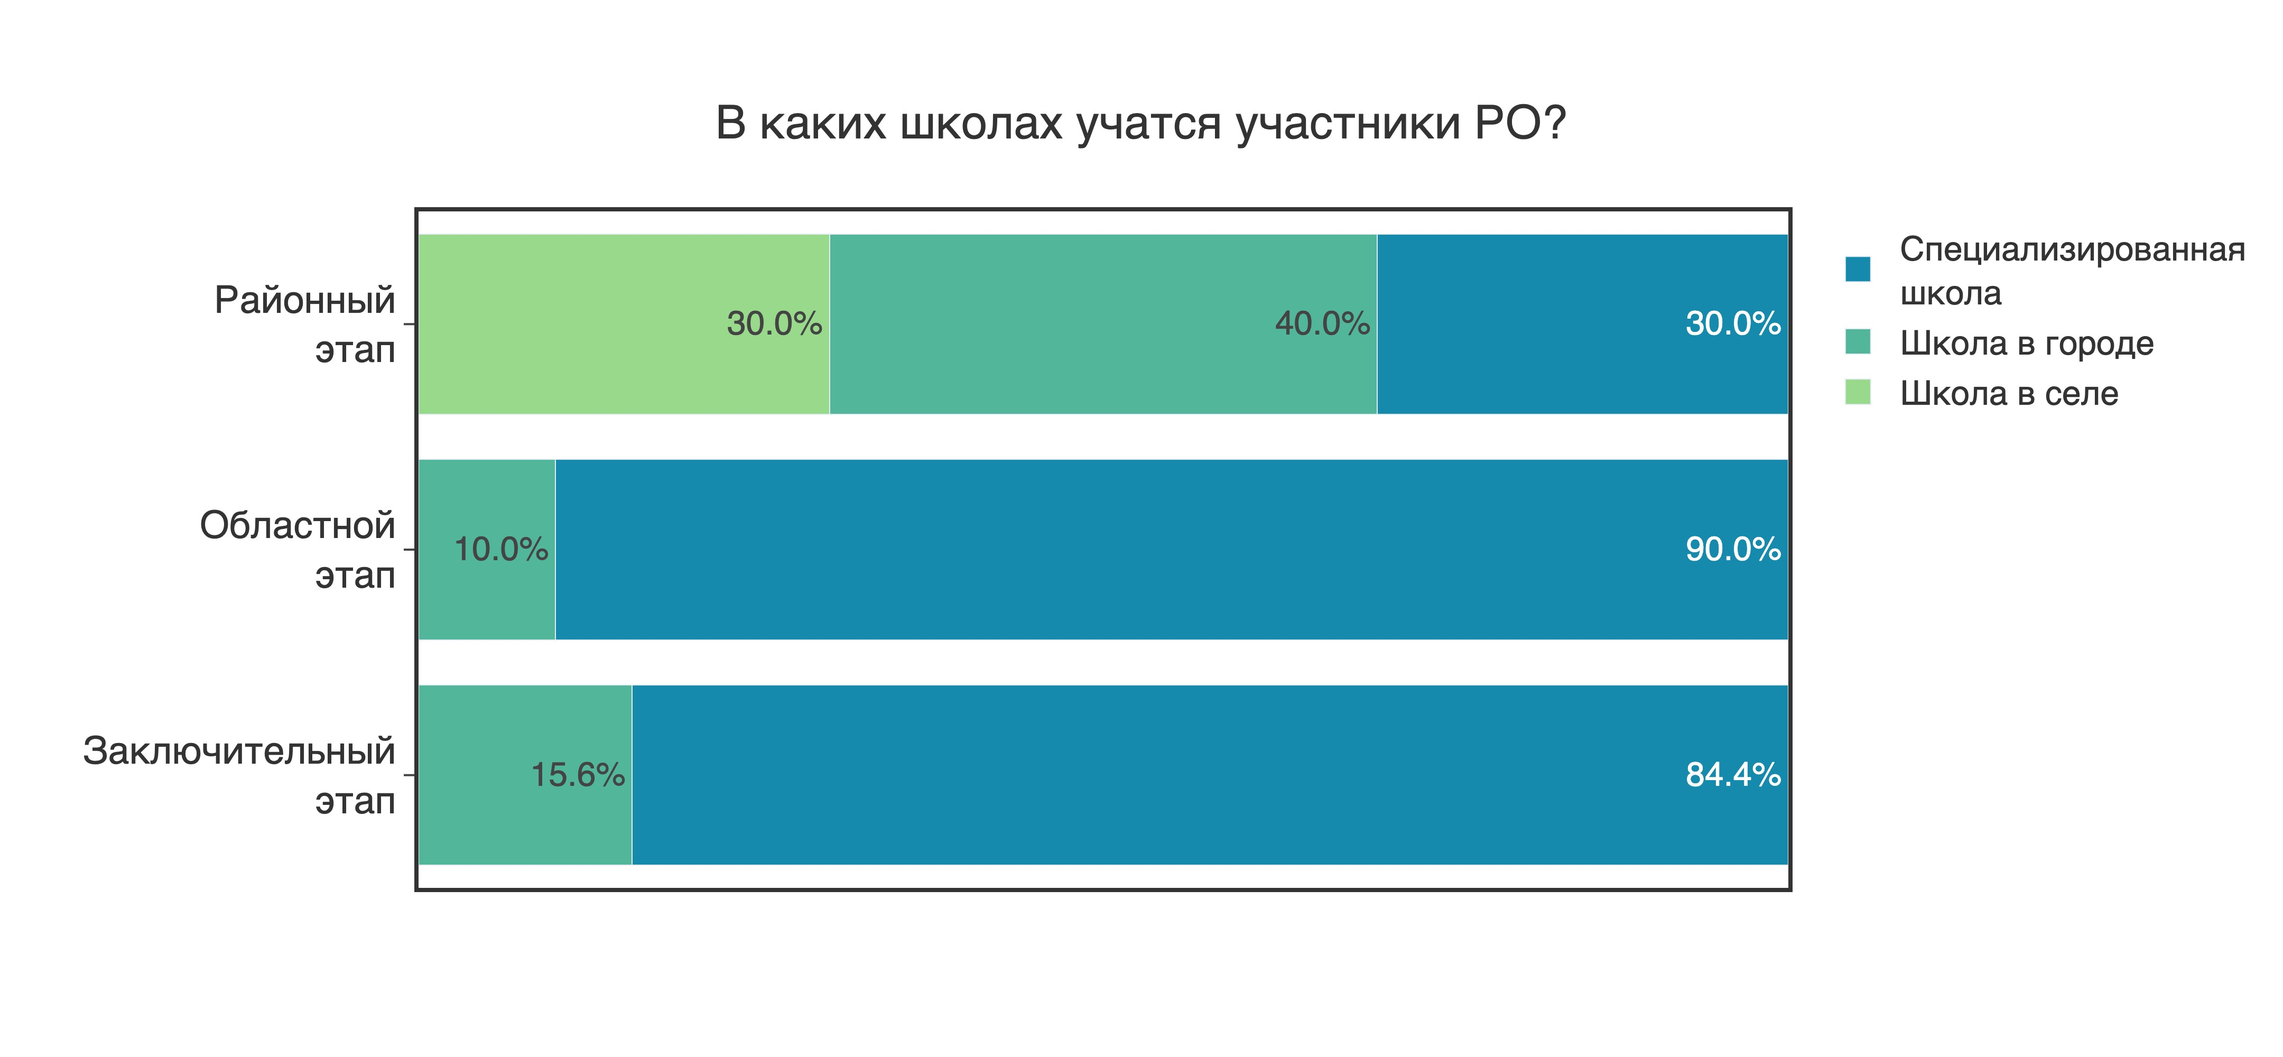
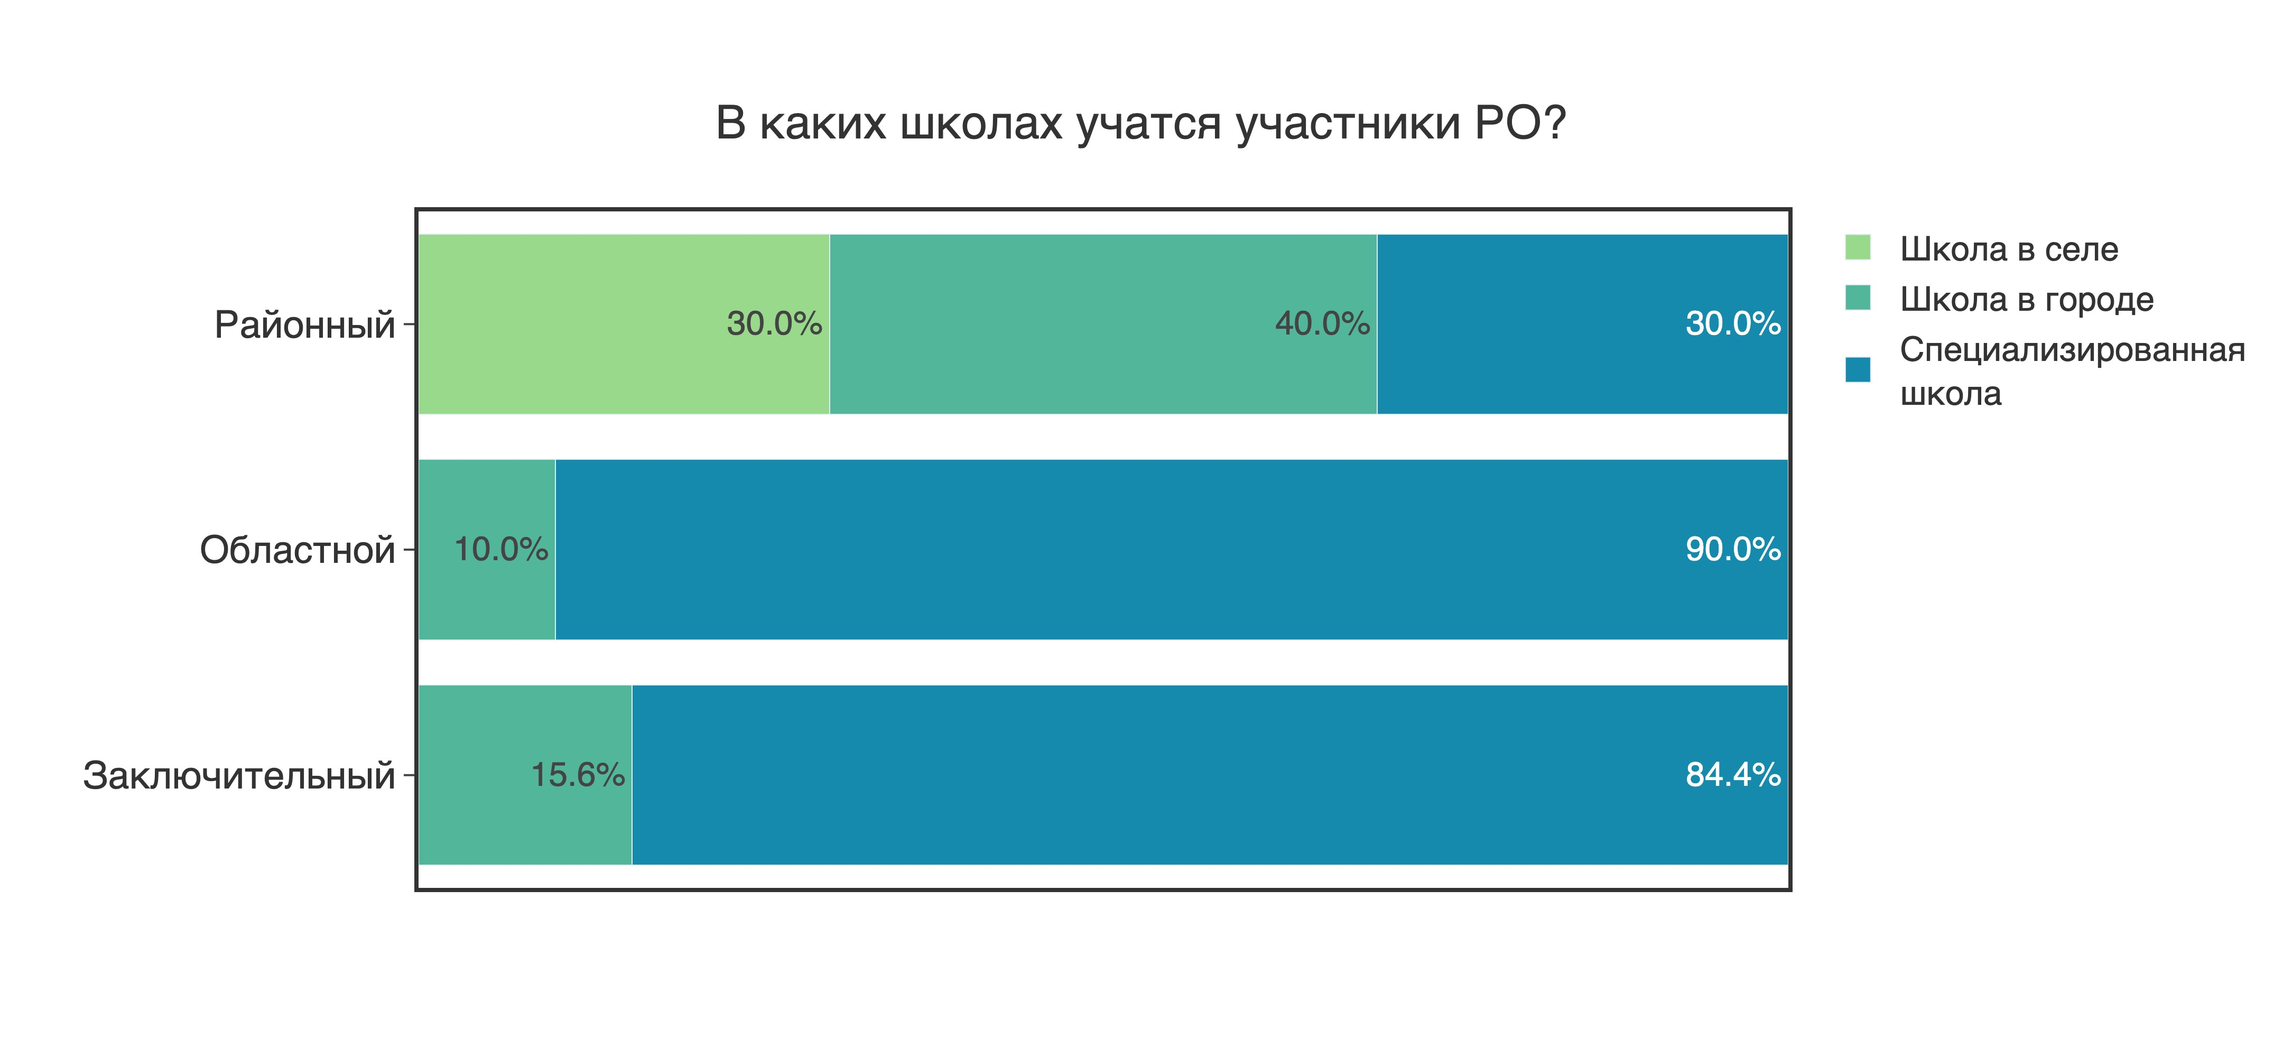
finish parsing survey

diff --git a/analysis/survey.py b/analysis/survey.py
@@ -8,6 +8,14 @@ class Analyzer:
     STAGES = "region oblast respa".split()
     GREEN3 = ["#99d98c", "#52b69a", "#168aad"]
     BLUEPINK = ["#4ea8de", "#ff8fab"]
+    BINARY = ["#5390d9", "#9d4edd"]
+    BINARYHOT = ["#EF7A85", "#788BFF"]
+    VIOLET5 = ["#e0aaff", "#c77dff", "#9d4edd", "#7b2cbf", "#5a189a"]
+    RED5 = ["#fff0f3", "#ffccd5", "#ffb3c1", "#ff4d6d", "#c9184a"]
+    GREEN5 = ["#d8f3dc", "#b7e4c7", "#95d5b2", "#57c84d", "#2eb62c"]
+    LIKERT = ['#D35269', '#EF7A85', '#EAEAEA', '#788BFF', '#5465FF']
+    stageToInd = {"respa": 0, "oblast": 1, "region": 2}
+    xValsStages = ["Заключительный", "Областной", "Районный"]
 
     def __init__(self):
         self.ROUND1 = tools.rounder(1)
@@ -18,7 +26,6 @@ class Analyzer:
     
     def school_distribution(self):
         graph = Graph()
-        stageToIn = {"region": 2, "oblast": 1, "respa": 0}
         data = {
             "respa": [0, 0, 0],
             "oblast": [0, 0, 0],
@@ -32,17 +39,16 @@ class Analyzer:
                     data[stage][1] += 1
                 else:
                     data[stage][2] += 1
-        xVals = ["Заключительный", "Областной", "Районный"]
         newData = {}
         schools = ["Школа в селе", "Школа в городе", "Специализированная<br>школа"]
         for stage, numbers in data.items():
             for school, number in zip(schools, numbers):
-                newData.setdefault(school, [None, None, None])[stageToIn[stage]] = self.ROUND1(number/sum(data[stage])*100)
+                newData.setdefault(school, [None, None, None])[self.stageToInd[stage]] = self.ROUND1(number/sum(data[stage])*100)
         traces = []
         for i, (stage, yVals) in enumerate(newData.items()):
             yValLabels = [f"{val}%" for val in yVals]
-            traces.append(go.Bar(y=xVals, x=yVals, name=stage, orientation='h', marker_color=self.GREEN3[i],
-                                 text=yValLabels, textposition='auto'))
+            traces.append(go.Bar(y=self.xValsStages, x=yVals, name=stage, orientation='h', marker_color=self.GREEN3[i],
+                                 text=yValLabels, textposition='auto', legendrank=2-i))
         title = 'В каких школах учатся участники РО?'
         graph.horizontal_bar_plot(traces, "demographics/schools", title)
 
@@ -83,12 +89,11 @@ class Analyzer:
         for i, (lang, yVals) in enumerate(newData.items()):
             yValLabels = [f"{val}%" for val in yVals]
             traces.append(go.Bar(y=xVals, x=yVals, name=lang, orientation='h', marker_color=self.GREEN3[2-i],
-                                 text=yValLabels, textposition='auto'))
+                                 text=yValLabels, textposition='auto', legendrank=2-i))
         graph.horizontal_bar_plot(traces, "demographics/language", "Язык обучения и язык на котором ученики читают задания РО")
 
     def gender_distribution(self):
         graph = Graph()
-        keyToInd = {"respa": 0, "oblast": 1, "region": 2}
         data = {"respa": [0, 0], "oblast": [0, 0], "region": [0, 0]} # male female
         for stage in self.STAGES:
             for student in self.raw[stage][0]:
@@ -100,17 +105,200 @@ class Analyzer:
         genders = ["Мужской", "Женский"]
         for stage, genderdist in data.items():
             for gender, count in zip(genders, genderdist):
-                newData.setdefault(gender, [None, None, None])[keyToInd[stage]] = self.ROUND1(count/sum(data[stage])*100)
+                newData.setdefault(gender, [None, None, None])[self.stageToInd[stage]] = self.ROUND1(count/sum(data[stage])*100)
         traces = []
-        xVals = ["Заключительный", "Областной", "Районный"]
         for i, (gender, yVals) in enumerate(newData.items()):
             yValLabels = [f"{val}%" for val in yVals]
-            traces.append(go.Bar(y=xVals, x=yVals, name=gender, orientation='h', marker_color=self.BLUEPINK[i],
-                                 text=yValLabels, textposition='auto'))
+            traces.append(go.Bar(y=self.xValsStages, x=yVals, name=gender, orientation='h', marker_color=self.BLUEPINK[i],
+                                 text=yValLabels, textposition='auto', legendrank=1-i))
         graph.horizontal_bar_plot(traces, "demographics/gender", "Пол участников РО")
 
+    def first_timers(self):
+        graph = Graph()
+        data = {"respa": [0, 0], "oblast": [0, 0], "region": [0, 0]} # first time | returning
+        for stage in self.STAGES:
+            for student in self.raw[stage][0]:
+                if student.firstTime:
+                    data[stage][0] += 1
+                else:
+                    data[stage][1] += 1
+        newData = {}
+        kinds = ["Участвует первый раз", "Участвовал в<br>предыдущие годы"]
+        for stage, kinddist in data.items():
+            for kind, count in zip(kinds, kinddist):
+                newData.setdefault(kind, [None, None, None])[self.stageToInd[stage]] = self.ROUND1(count/sum(data[stage])*100)
+        traces = []
+        for i, (kind, yVals) in enumerate(newData.items()):
+            yValLabels = [f"{val}%" for val in yVals]
+            traces.append(go.Bar(y=self.xValsStages, x=yVals, name=kind, orientation='h', marker_color=self.BINARY[i],
+                                 text=yValLabels, textposition='auto', legendrank=1-i))
+        graph.horizontal_bar_plot(traces, "demographics/firsttimers", "Какая доля учеников участвует на РО в первый раз?")
+    
+    def first_timers_by_grade(self, grade):
+        graph = Graph()
+        data = {"respa": [0, 0], "oblast": [0, 0], "region": [0, 0]} # first time | returning
+        for stage in self.STAGES:
+            for student in self.raw[stage][1][grade]:
+                if student.firstTime:
+                    data[stage][0] += 1
+                else:
+                    data[stage][1] += 1
+        newData = {}
+        kinds = ["Участвует первый раз", "Участвовал в<br>предыдущие годы"]
+        for stage, kinddist in data.items():
+            for kind, count in zip(kinds, kinddist):
+                newData.setdefault(kind, [None, None, None])[self.stageToInd[stage]] = self.ROUND1(count/sum(data[stage])*100)
+        traces = []
+        for i, (kind, yVals) in enumerate(newData.items()):
+            yValLabels = [f"{val}%" for val in yVals]
+            traces.append(go.Bar(y=self.xValsStages, x=yVals, name=kind, orientation='h', marker_color=self.BINARY[i],
+                                 text=yValLabels, textposition='auto', legendrank=1-i))
+        graph.horizontal_bar_plot(traces, f"demographics/firsttimers-grade{grade}", f"Какая доля учеников ({grade} кл.) участвует на РО в первый раз?")
+
+    def preparation_time(self):
+        graph = Graph()
+        keyToInd = {"Меньше двух недель": 0, "От двух недель до месяца": 1,
+                    "От месяца до 3 месяцев": 2, "От 3 месяцев до 6 месяцев": 3,
+                    "Больше 6 месяцев": 4}
+        data = {"respa": [0, 0, 0, 0, 0], "oblast": [0, 0, 0, 0, 0], 
+                "region": [0, 0, 0, 0, 0]} # <2 weeks|2-4 weeks|1-3 months|3-6 months|>6 months
+        for stage in self.STAGES:
+            for student in self.raw[stage][0]:
+                data[stage][keyToInd[student.prepTime]] += 1
+        newData = {}
+        for stage, timedist in data.items():
+            for time, count in zip(keyToInd, timedist):
+                newData.setdefault(time, [None]*3)[self.stageToInd[stage]] = self.ROUND1(count/sum(data[stage])*100)
+        traces = []
+        for i, (time, yVals) in enumerate(newData.items()):
+            yValLabels = [f"{val}%" for val in yVals]
+            traces.append(go.Bar(y=self.xValsStages, x=yVals, name=time, orientation='h', marker_color=self.VIOLET5[i],
+                                 text=yValLabels, textposition='auto'))
+        graph.horizontal_bar_plot(traces, "demographics/preptime", "Как долго ученики готовятся к РО?")
+                
+    def preparation_style(self):
+        graph = Graph()
+        keyToInd = {"Я готовился<br>с учителем": 0, "Я готовился<br>больше с учителем,<br>нежели самостоятельно": 1,
+                    "Готовился в равной<br>степени самостоятельно<br>и с учителем": 2, "Я готовился<br>больше самостоятельно,<br>нежели с учителем": 3,
+                    "Я готовился<br>самостоятельно": 4}
+        data = {"respa": [0, 0, 0, 0, 0], "oblast": [0, 0, 0, 0, 0], 
+                "region": [0, 0, 0, 0, 0]}
+        for stage in self.STAGES:
+            for student in self.raw[stage][0]:
+                for key in keyToInd:
+                    if key.replace("<br>", " ") == student.prepStyle:
+                        data[stage][keyToInd[key]] += 1
+        newData = {}
+        for stage, styledist in data.items():
+            for style, count in zip(keyToInd, styledist):
+                newData.setdefault(style, [None]*3)[self.stageToInd[stage]] = self.ROUND1(count/sum(data[stage])*100)
+        traces = []
+        for i, (style, yVals) in enumerate(newData.items()):
+            yValLabels = [f"{val}%" for val in yVals]
+            traces.append(go.Bar(y=self.xValsStages, x=yVals, name=style, orientation='h', marker_color=self.LIKERT[i],
+                                 text=yValLabels, textposition='auto', legendrank=4-i))
+        graph.horizontal_bar_plot(traces, "demographics/prepstyle", "Как ученики готовятся к РО: с учителем или самостоятельно?")
+
+    def did_you_know(self):
+        graph = Graph()
+        knewQazChO, knewSyllabus, knewQazolymp = [0, 0], [0, 0], [0, 0]
+        for student in self.raw["region"][0]:
+            if student.knewQazChO:
+                knewQazChO[0] += 1
+            else:
+                knewQazChO[1] += 1
+            if student.knewSyllabus:
+                knewSyllabus[0] += 1
+            else:
+                knewSyllabus[1] += 1
+            if student.knewQazolymp:
+                knewQazolymp[0] += 1
+            else:
+                knewQazolymp[1] += 1
+        def share(data, ind):
+            return self.ROUND1(data[ind]/sum(data)*100)
+        
+        newData = {"Да": [share(knewQazChO, 0), share(knewSyllabus, 0), share(knewQazolymp, 0)],
+                   "Нет": [share(knewQazChO, 1), share(knewSyllabus, 1), share(knewQazolymp, 1)]}
+        keyToInd = {"Знали ли вы<br>про существование<br>Коллегии химиков (qazcho.kz)?": 0,
+                    "Знали ли вы<br>про существование<br>«силлабуса» республиканских<br>олимпиад?": 1,
+                    "Знали ли вы<br>про существование<br>базы с заданиями прошлых<br>лет (qazolymp.kz)?": 2}
+        traces = []
+        for i, (yesno, yVals) in enumerate(newData.items()):
+            yValLabels = [f"{val}%" for val in yVals]
+            traces.append(go.Bar(y=list(keyToInd), x=yVals, name=yesno, orientation='h', marker_color=self.BINARYHOT[1-i],
+                                 text=yValLabels, textposition='auto', legendrank=1-i))
+        graph.horizontal_bar_plot(traces, "demographics/shortquestions", "Степень осведомленности участников РО о доступных ресурсах")
+
+    def problem_difficulty(self, grade):
+        graph = Graph()
+        data = {"respa": [0, 0, 0, 0, 0],
+                "oblast": [0, 0, 0, 0, 0],
+                "region": [0, 0, 0, 0, 0],}
+        for stage in self.STAGES:
+            for student in self.raw[stage][1][grade]:
+                data[stage][student.difficulty-1] += 1
+        newData = {}
+        for stage, diffdist in data.items():
+            for difficulty, count in zip(range(5), diffdist):
+                newData.setdefault(difficulty, [None]*3)[self.stageToInd[stage]] = self.ROUND1(count/sum(data[stage])*100)
+        traces = []
+        for i, (diff, yVals) in enumerate(newData.items()):
+            yValLabels = [f"{val}%" for val in yVals]
+            traces.append(go.Bar(y=self.xValsStages, x=yVals, name=f"{diff+1}/5", orientation='h', marker_color=self.RED5[i],
+                                 text=yValLabels, textposition='auto', legendrank=4-i))
+        graph.horizontal_bar_plot(traces, f"demographics/difficulty-grade{grade}", f"Насколько задания теоретического тура ({grade} кл.) были сложными? (1 - легкие, 5 - сложные)")
+
+    def problem_volume(self, grade):
+        graph = Graph()
+        data = {"respa": [0, 0, 0, 0, 0],
+                "oblast": [0, 0, 0, 0, 0],
+                "region": [0, 0, 0, 0, 0],}
+        for stage in self.STAGES:
+            for student in self.raw[stage][1][grade]:
+                data[stage][student.volume-1] += 1
+        newData = {}
+        for stage, diffdist in data.items():
+            for difficulty, count in zip(range(5), diffdist):
+                newData.setdefault(difficulty, [None]*3)[self.stageToInd[stage]] = self.ROUND1(count/sum(data[stage])*100)
+        traces = []
+        for i, (diff, yVals) in enumerate(newData.items()):
+            yValLabels = [f"{val}%" for val in yVals]
+            traces.append(go.Bar(y=self.xValsStages, x=yVals, name=f"{diff+1}/5", orientation='h', marker_color=self.RED5[i],
+                                 text=yValLabels, textposition='auto', legendrank=4-i))
+        graph.horizontal_bar_plot(traces, f"demographics/volume-grade{grade}", f"Насколько задания теоретического тура ({grade} кл.) были объемными? (1 - времени было достаточно, 5 - времени не хватало)")
+
+    def problem_interest(self, grade):
+        graph = Graph()
+        data = {"respa": [0, 0, 0, 0, 0],
+                "oblast": [0, 0, 0, 0, 0],
+                "region": [0, 0, 0, 0, 0],}
+        for stage in self.STAGES:
+            for student in self.raw[stage][1][grade]:
+                data[stage][student.interest-1] += 1
+        newData = {}
+        for stage, diffdist in data.items():
+            for difficulty, count in zip(range(5), diffdist):
+                newData.setdefault(difficulty, [None]*3)[self.stageToInd[stage]] = self.ROUND1(count/sum(data[stage])*100)
+        traces = []
+        for i, (diff, yVals) in enumerate(newData.items()):
+            yValLabels = [f"{val}%" for val in yVals]
+            traces.append(go.Bar(y=self.xValsStages, x=yVals, name=f"{diff+1}/5", orientation='h', marker_color=self.GREEN5[i],
+                                 text=yValLabels, textposition='auto', legendrank=4-i))
+        graph.horizontal_bar_plot(traces, f"demographics/interest-grade{grade}", f"Насколько задания теоретического тура ({grade} кл.) были интересными? (1 - скучные, 5 - интересные)")
+         
 if __name__ == "__main__":
     a = Analyzer()
     a.school_distribution()
     a.language_distribution()
     a.gender_distribution()
+    a.first_timers()
+    for grade in (9, 10, 11):
+        a.first_timers_by_grade(grade)
+    a.preparation_time()
+    a.preparation_style()
+    a.did_you_know()
+    for grade in (9, 10, 11):
+        a.problem_difficulty(grade)
+        a.problem_volume(grade)
+        a.problem_interest(grade)

diff --git a/objects/graph.py b/objects/graph.py
@@ -87,10 +87,10 @@ class Graph:
         fig = go.Figure()
         for trace in traces:
             fig.add_trace(trace)
-        fig.update_layout(barmode="stack", width=1080)
         self._update_fig(fig, title)
         self._update_axes(fig)
         fig.update_xaxes(range=[0, 100], showticklabels=False, ticks=None)
+        fig.update_layout(barmode="stack", width=1080, legend_traceorder='reversed')
         self._save_fig(fig, fname)
 
     

diff --git a/README.md b/README.md
@@ -12,9 +12,9 @@
 
 ## Планирование
 
-1. Написать парсер ответов на форму. Думаю сделать объект для ответов ученика. В будущем будет отдельный объект для объединенных учеников.
-2. Сделать анализ ответов закла.
-3. Повторить для области-района.
+1. Написать парсер ответов на форму. Думаю сделать объект для ответов ученика. В будущем будет отдельный объект для объединенных учеников. (готово?)
+2. Сделать анализ ответов закла. (готово?)
+3. Повторить для области-района. (готово?)
 4. Сопоставить ответы между этапами.
 5. Сопоставить ответы с истинными результатами.
 6. Провести анализ результатов внутри олимпиады.
